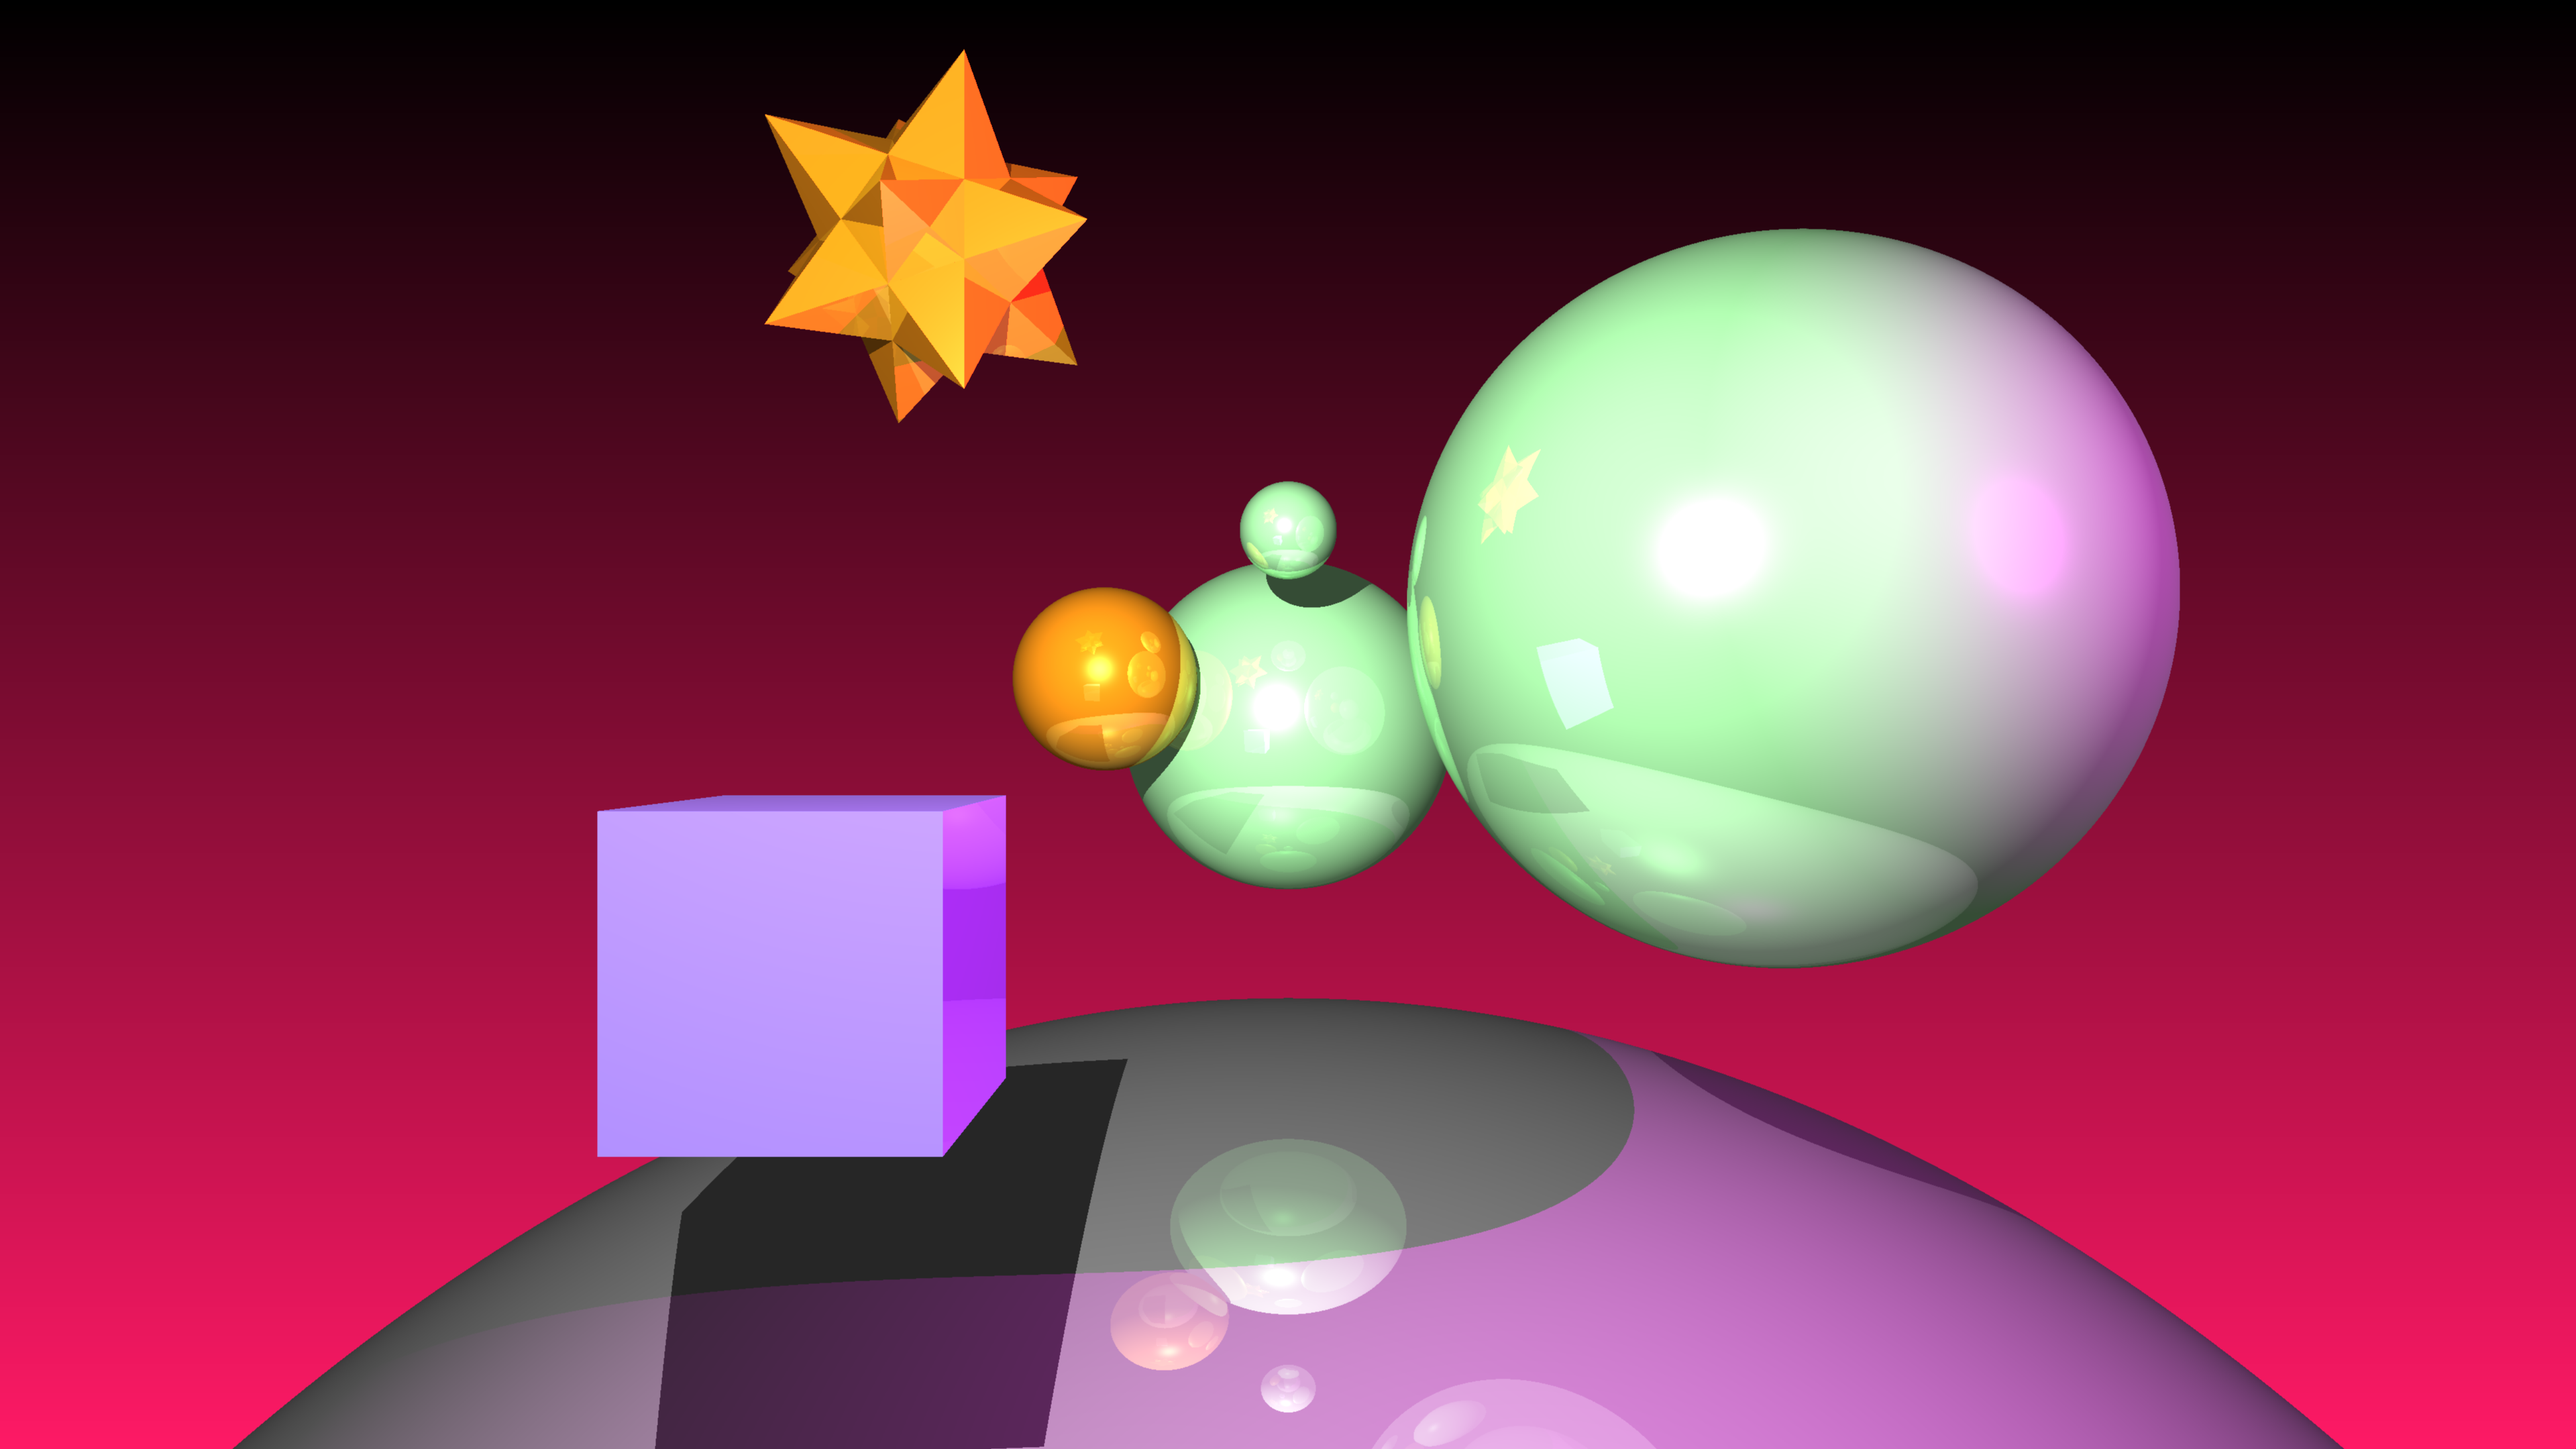
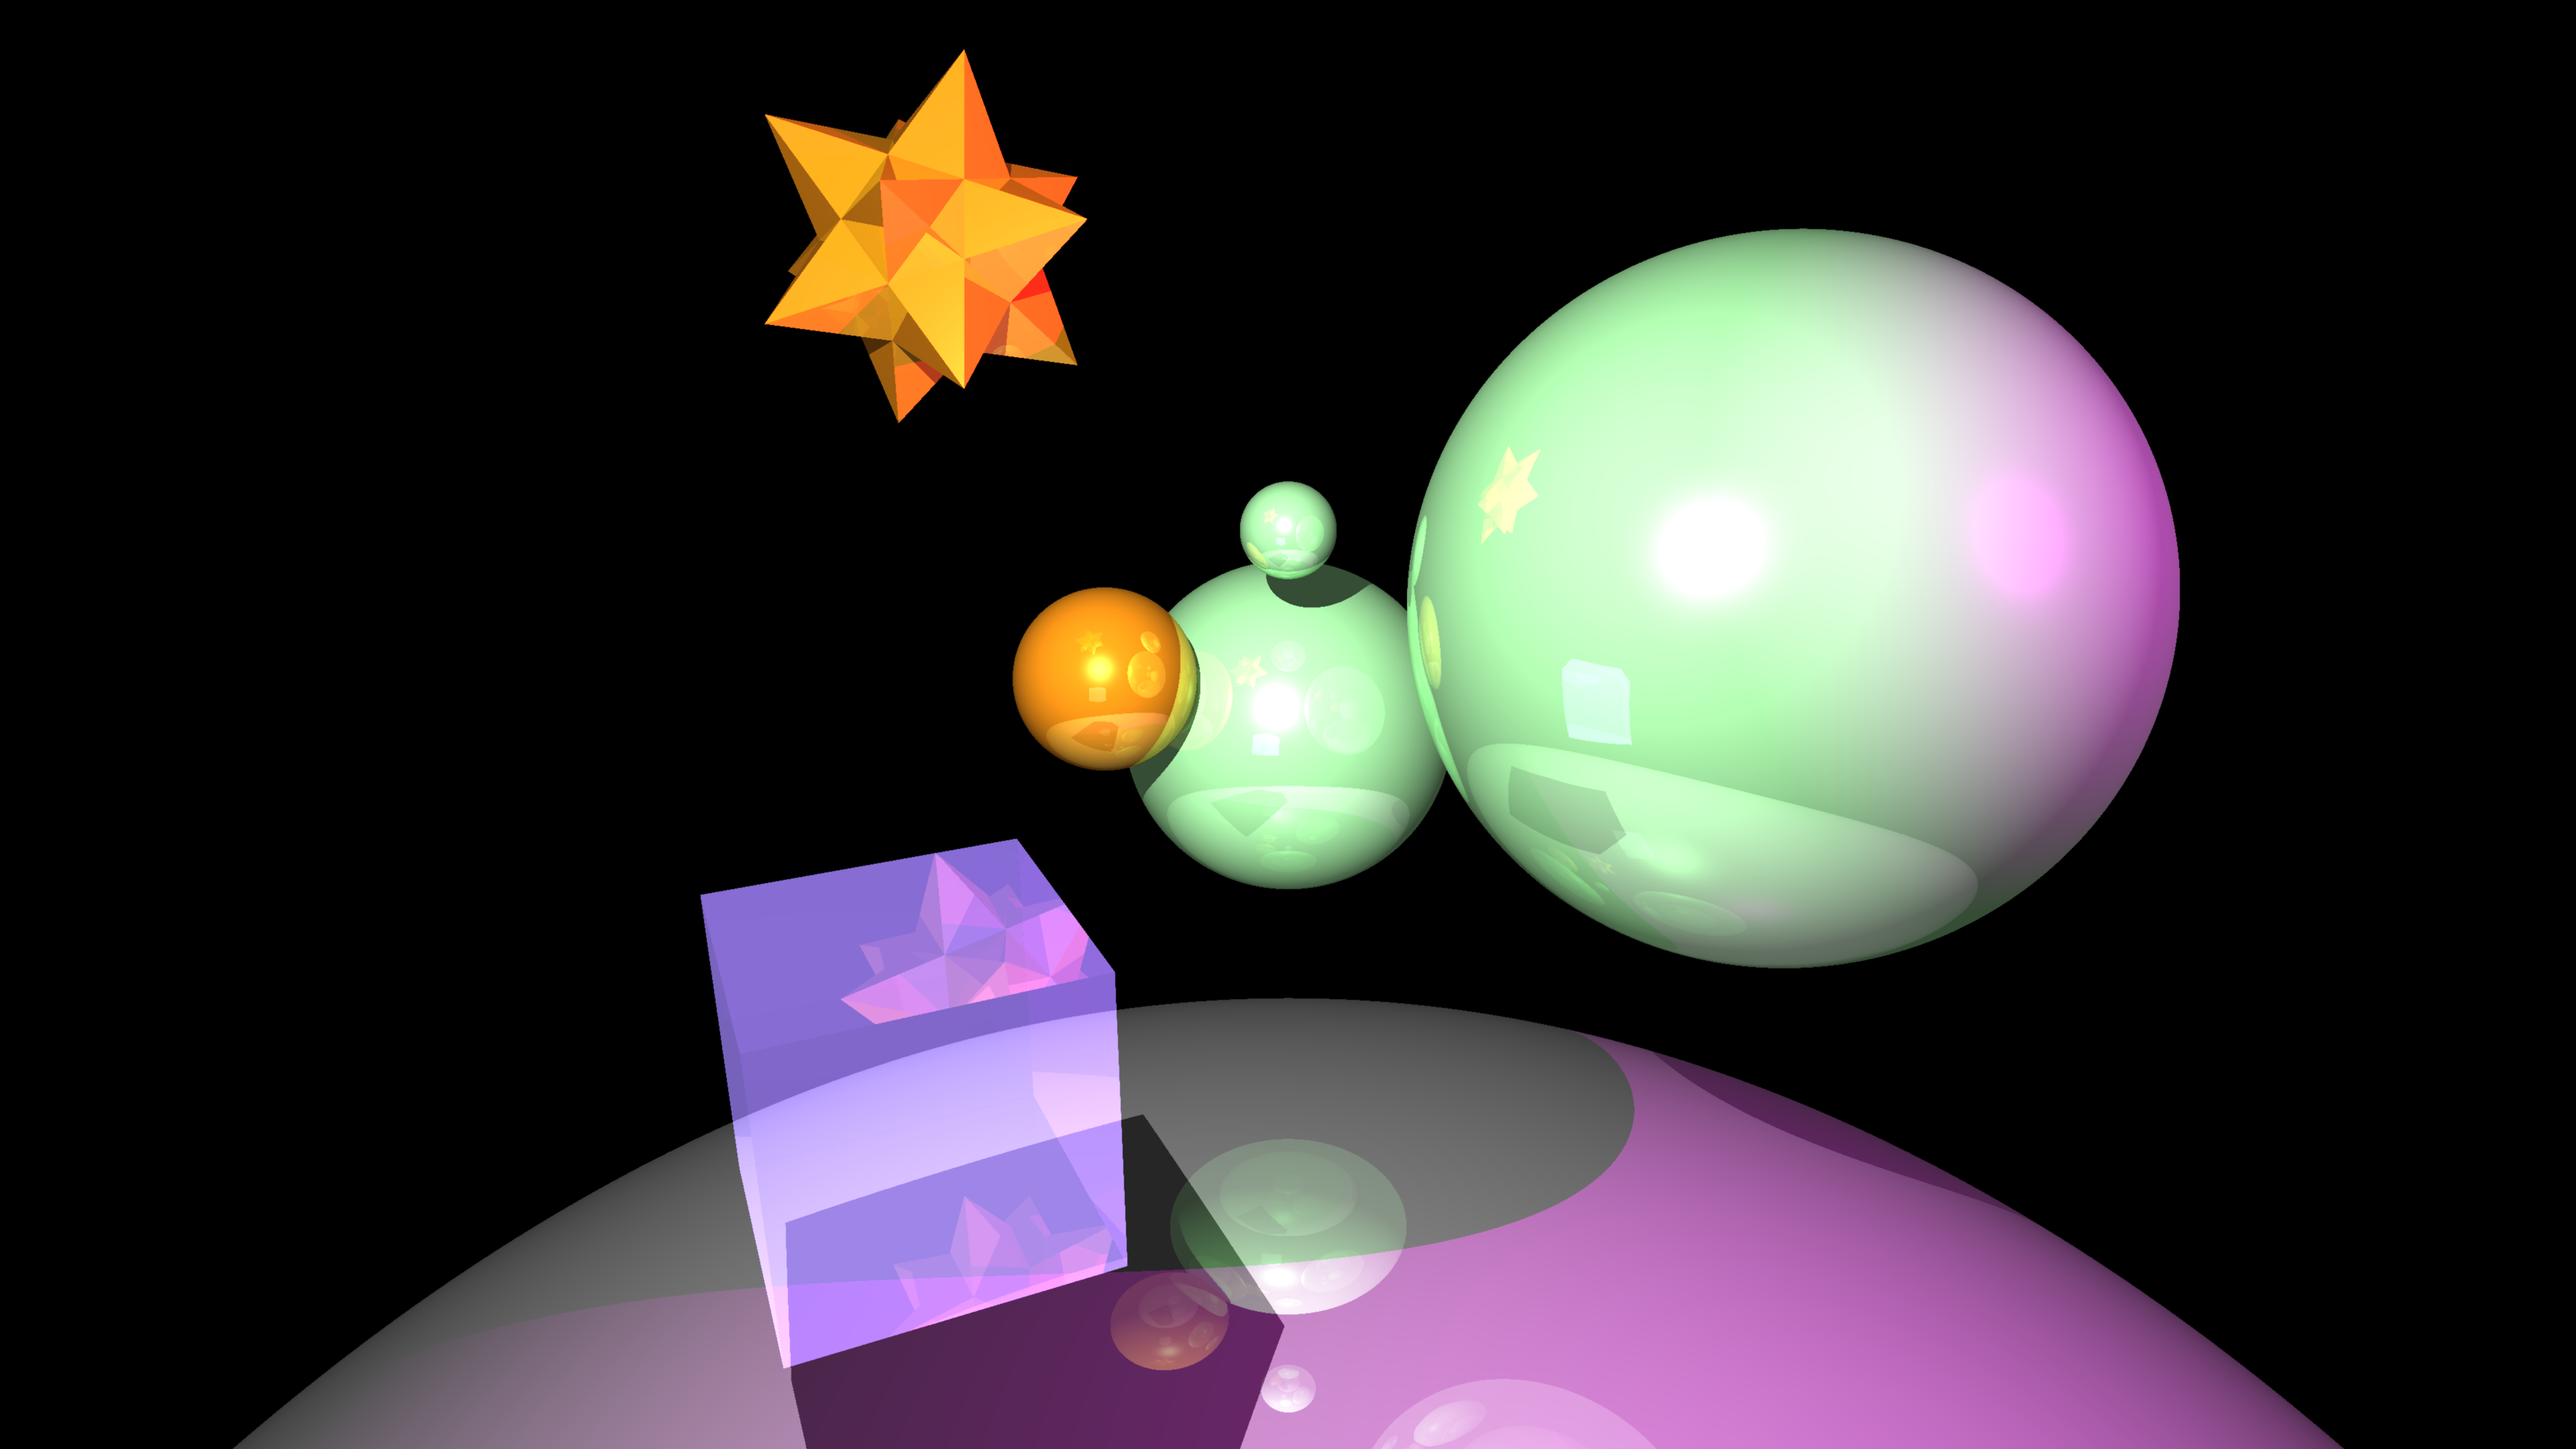
implemented transparency

diff --git a/src/RenderPixel.cpp b/src/RenderPixel.cpp
@@ -114,18 +114,18 @@ glm::vec3 Render_Pixel(
 	Ray ray = getPrimaryRay(x+0.5f, y+0.5f, w, h, fovy, -nearPlane);
 #endif	
    
-    vec3 color = shading(ray, 1, root, ambient, lights);
-    if(color == vec3(0)){
-		// background color
-		color = vec3(y / float(h), y*0.1 / float(h), y*0.4 / float(h));
-    }
-    return color;
+    return shading(ray, 1, x, y, w, h, root, ambient, lights);
 }
 
 // http://web.cse.ohio-state.edu/~shen.94/681/Site/Slides_files/reflection_refraction.pdf
 glm::vec3 shading(
 		const Ray & ray, 
 		const int recursionDepth,
+
+		int x, 
+		int y, 
+		int w, 
+		int h,
 
 		// What to render  
 		const SceneNode * root,
@@ -153,6 +153,7 @@ glm::vec3 shading(
 		const vec3 & kd = phong->m_kd;
 		const vec3 & ks = phong->m_ks;
 		const double & p = phong->m_shininess;
+		const double & opacity = phong->m_opacity;
 
 		const vec3 & n = result_Worldsp.surface_normal;
 		const vec3 & intersection = result_Worldsp.intersection;
@@ -193,10 +194,15 @@ glm::vec3 shading(
 
 			if(shadowRay_result.isHit()) continue;	// discard;
 
-			color += kd*I*std::max(float(0), glm::dot(light_dir, n))
+			const vec3 & color_self = kd*I*std::max(float(0), glm::dot(light_dir, n))
 					+ ks*I*std::max(double(0), std::pow(glm::dot(r, v), p) );
 					// + ks*std::pow(glm::dot(h, n), p)*I;
 
+#ifdef REFRACTION
+			color += opacity*color_self;
+#else
+			color += color_self;
+#endif
 		} // for lights
 //--------------------------  Lighting  -----------------------------//
 _SKIP_LIGHTING_:
@@ -206,17 +212,27 @@ _SKIP_LIGHTING_:
 			// if(shiny)
 			const Ray & ray_reflection = Ray(intersection, glm::reflect(ray.dir, n));
 			const vec3 & reflect_color = 
-				0.5 * ks * shading(ray_reflection, recursionDepth + 1, root, ambient, lights);
+				0.5 * ks * shading(ray_reflection, recursionDepth + 1, x, y, w, h,root, ambient, lights);
 			color += reflect_color;
+
+ #ifdef REFRACTION
+			if(opacity != 1){
+				const Ray & ray_transmition = Ray(intersection, ray.dir);
+				const vec3 & refract_color = 
+					shading(ray_transmition, recursionDepth + 1, x, y, w, h,root, ambient, lights);
+				color += (1.0-opacity)*refract_color;
+			}
+		
+ #endif	
 		}
 
-#endif		
+#endif
 		return color;
 
 	} else {	// if not hit
 
 		// background color
-		// vec3 color(y / float(h), y*0.1 / float(h), y*0.4 / float(h));
-		return vec3(0, 0, 0);
+		// return vec3(0.0*y / float(h), y*0.1 / float(h), y*0.4 / float(h));
+		return vec3(0);
 	}
 }

diff --git a/src/RayTracer.hpp b/src/RayTracer.hpp
@@ -16,7 +16,8 @@
 
 #define SSAA
 #define REFLECTION
-#define MAX_SHADE_RECURSION 3
+#define REFRACTION
+#define MAX_SHADE_RECURSION 4
 
 // #define DRAW_BBOX
 #define USE_LIGHT_FRONT
@@ -82,6 +83,11 @@ glm::vec3 Render_Pixel(
 glm::vec3 shading(
 		const Ray & ray, 
 		const int recursionDepth,
+
+		int x, 
+		int y, 
+		int w, 
+		int h,
 
 		// What to render  
 		const SceneNode * root,

diff --git a/src/PhongMaterial.cpp b/src/PhongMaterial.cpp
@@ -8,7 +8,10 @@ PhongMaterial::PhongMaterial(
 	, m_ks(ks)
 	, m_shininess(shininess)
 	, m_opacity(opacity)
-{}
+{
+	if(m_opacity > 1) m_opacity = 1;
+	if(m_opacity < 0) m_opacity = 0;
+}
 
 PhongMaterial::~PhongMaterial()
 {}
